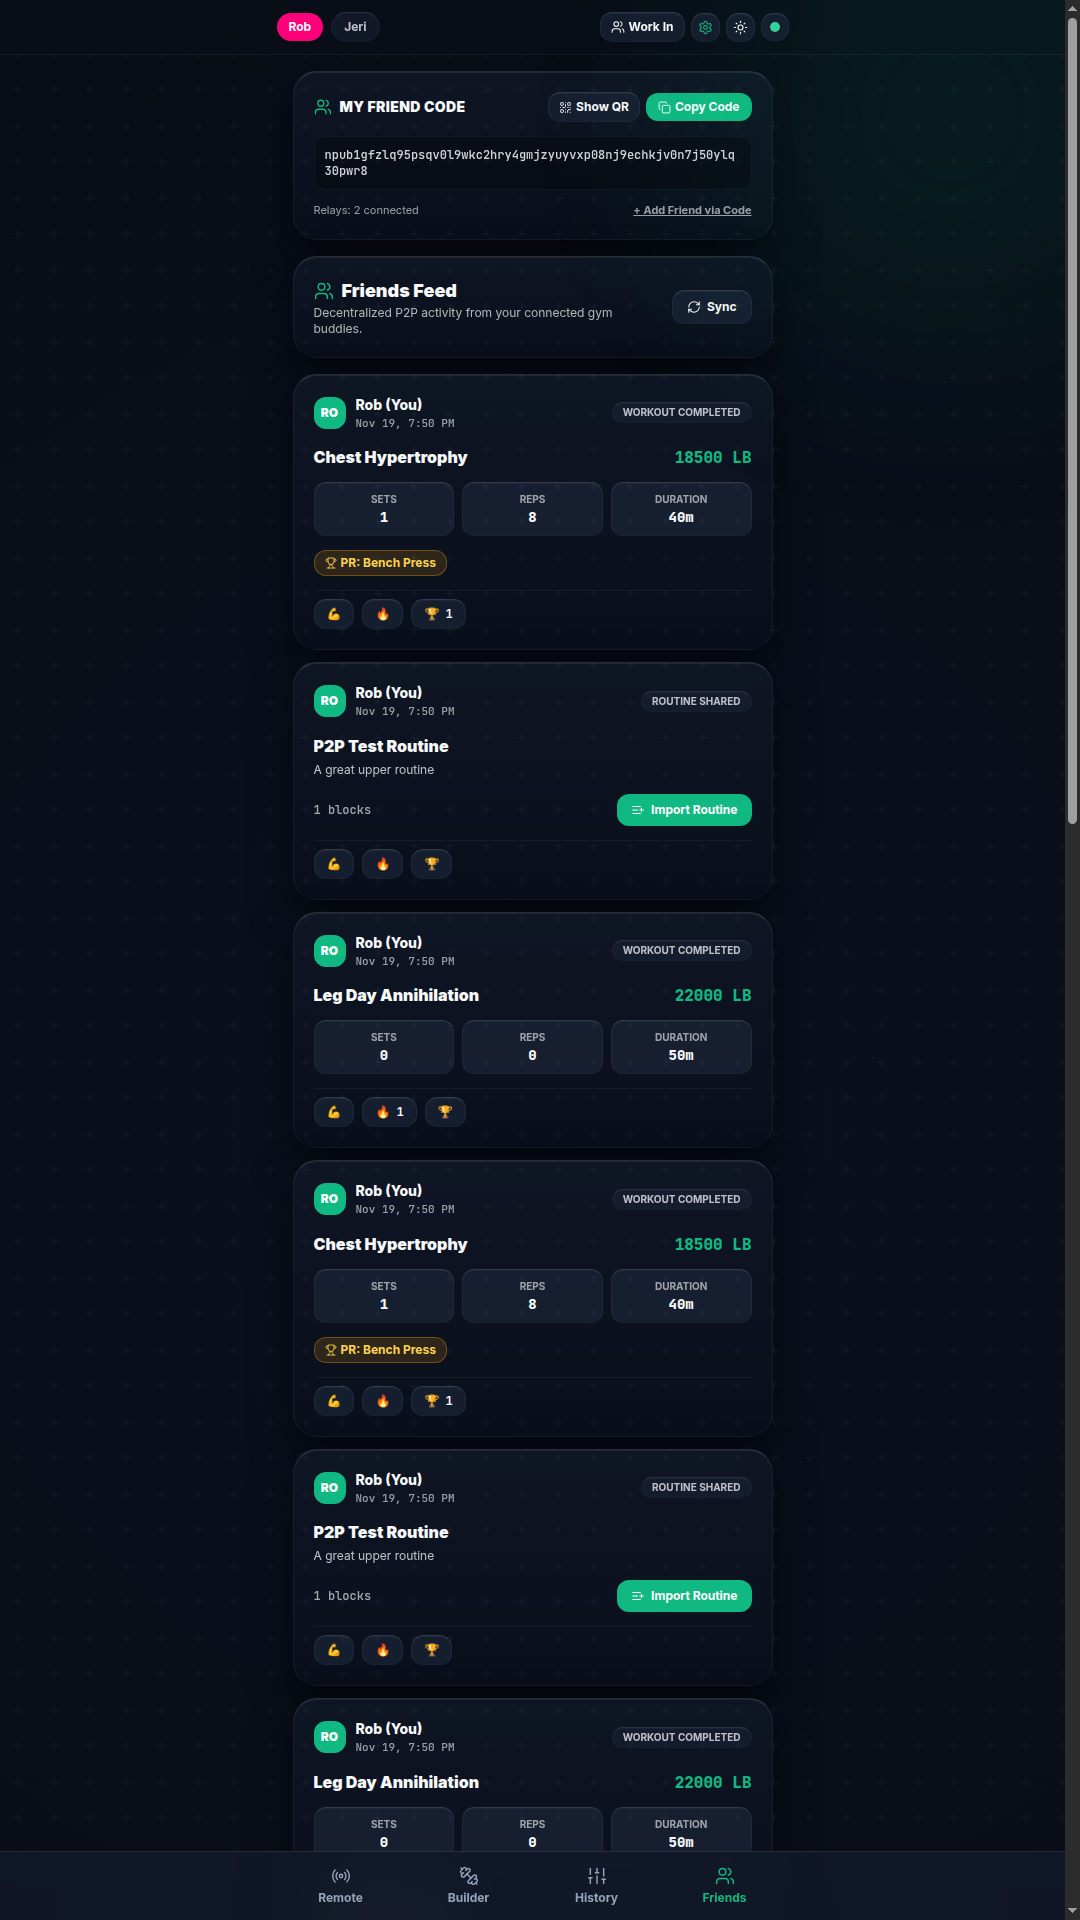
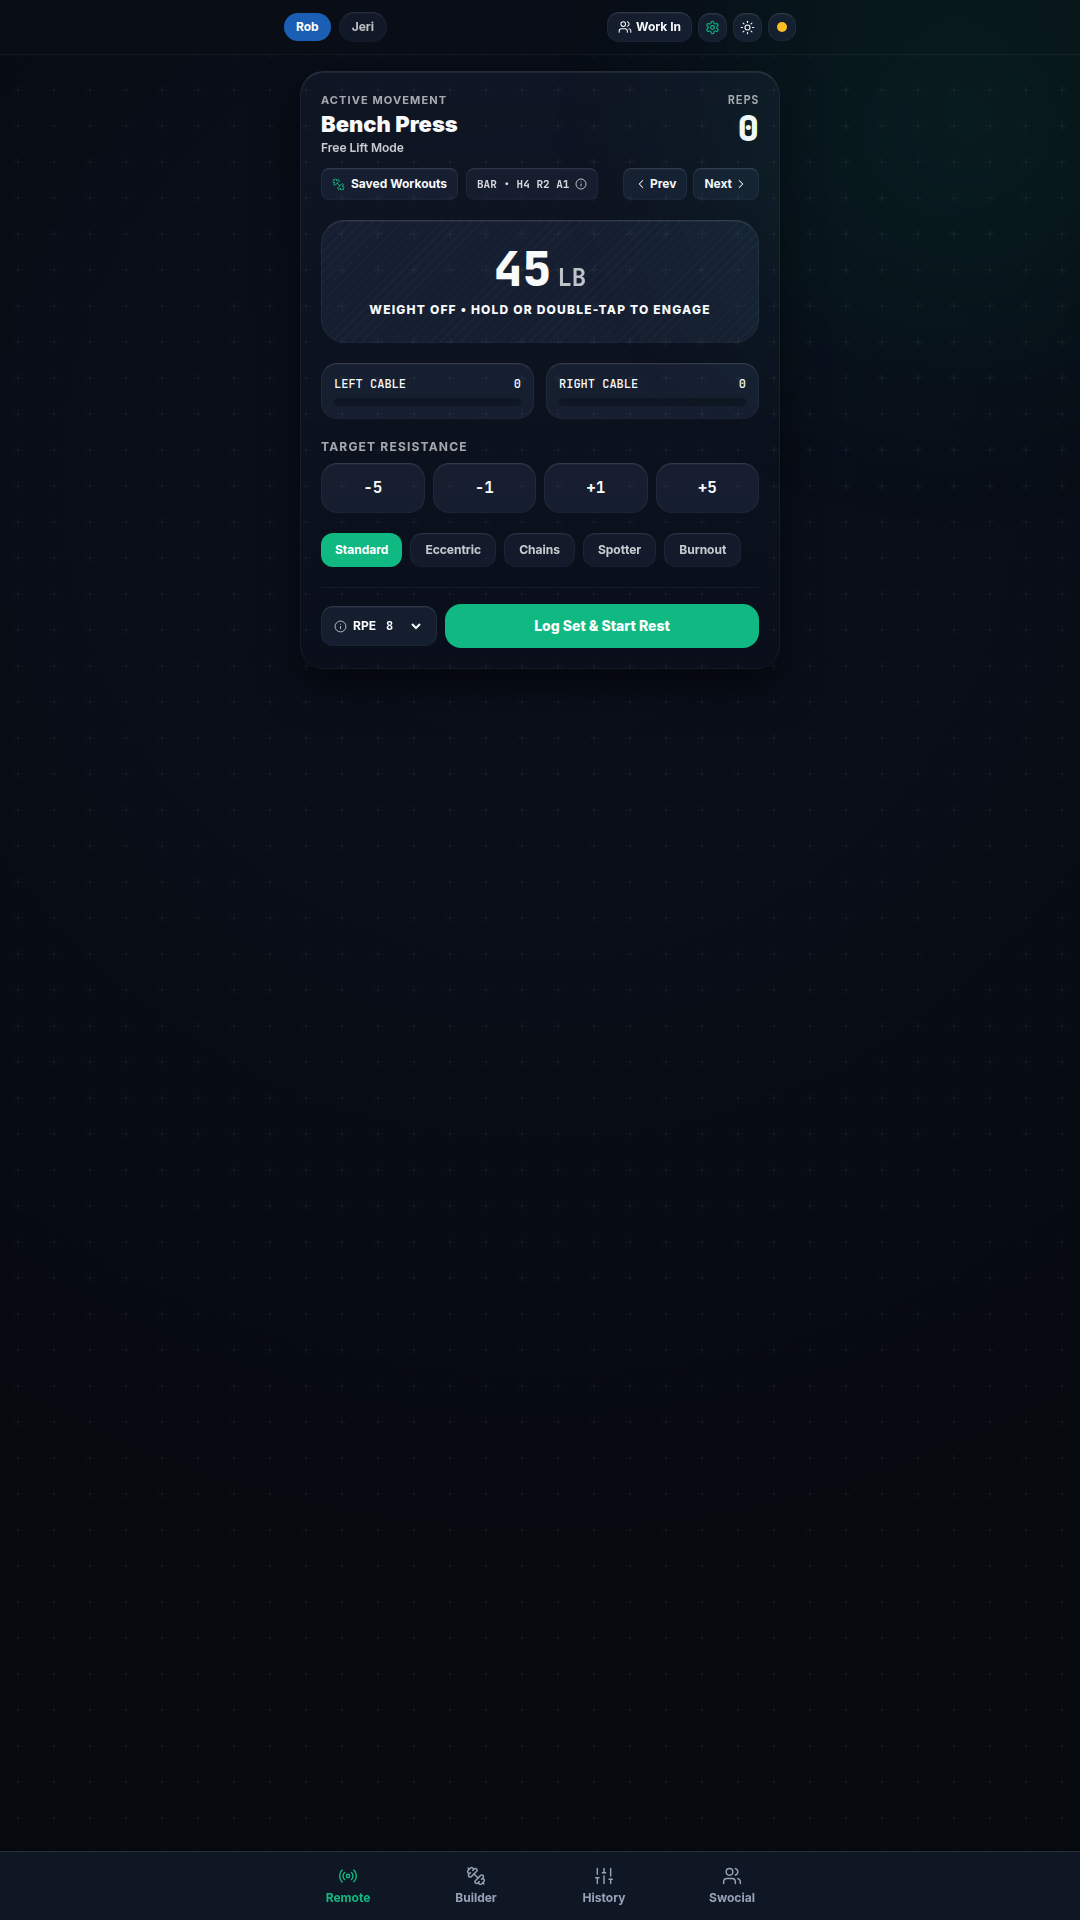
ui: rebrand friends pages and modals to clean and playful 'Swocial'

diff --git a/packages/server-app/src/client/src/components/KioskView.tsx b/packages/server-app/src/client/src/components/KioskView.tsx
@@ -1086,7 +1086,7 @@ export const KioskView: React.FC<{ swonal: SwonalHookReturn }> = ({ swonal }) =>
                   className="w-full elevated-pill py-3 px-3 rounded-xl font-bold text-sm flex items-center justify-center gap-2 hover:opacity-90"
                 >
                   <Users size={16} style={{ color: 'var(--accent-ink)' }} />
-                  <span>Friend Code &amp; QR</span>
+                  <span>Swocial</span>
                 </button>
 
                 <a
@@ -1112,18 +1112,18 @@ export const KioskView: React.FC<{ swonal: SwonalHookReturn }> = ({ swonal }) =>
             )}
           </div>
 
-          {/* Friends & P2P Community Modal */}
+          {/* Swocial Modal */}
           <button
             type="button"
             onClick={() => {
               void loadKioskFriendsData();
               friendsDialogRef.current?.showModal();
             }}
-            title="Open Friends & P2P Community"
+            title="Open Swocial"
             className="elevated-pill px-4 py-3 rounded-2xl flex items-center gap-2 text-sm font-bold hover:opacity-90 transition"
           >
             <Users size={18} style={{ color: 'var(--accent-ink)' }} />
-            <span>Friends</span>
+            <span>Swocial</span>
           </button>
 
           {/* Companion QR Remote Modal */}
@@ -2932,10 +2932,10 @@ export const KioskView: React.FC<{ swonal: SwonalHookReturn }> = ({ swonal }) =>
             </div>
             <div>
               <h2 id="friends-dialog-title" className="text-2xl font-black">
-                Friends &amp; P2P Community
+                Swocial
               </h2>
               <p className="text-xs opacity-70">
-                Decentralized Nostr protocol • No centralized cloud required
+                Live workout feed and gym buddy activity
               </p>
             </div>
           </div>
@@ -2943,7 +2943,7 @@ export const KioskView: React.FC<{ swonal: SwonalHookReturn }> = ({ swonal }) =>
             type="button"
             onClick={() => friendsDialogRef.current?.close()}
             className="elevated-pill p-2 rounded-xl"
-            aria-label="Close Friends Dialog"
+            aria-label="Close Swocial Dialog"
           >
             <X size={20} />
           </button>
@@ -2964,7 +2964,7 @@ export const KioskView: React.FC<{ swonal: SwonalHookReturn }> = ({ swonal }) =>
             }
           >
             <QrCode size={14} />
-            <span>My Friend Code</span>
+            <span>My Swocial Code</span>
           </button>
           <button
             type="button"
@@ -2979,7 +2979,7 @@ export const KioskView: React.FC<{ swonal: SwonalHookReturn }> = ({ swonal }) =>
             }
           >
             <Activity size={14} />
-            <span>Activity Feed</span>
+            <span>Feed</span>
           </button>
           <button
             type="button"
@@ -2994,17 +2994,17 @@ export const KioskView: React.FC<{ swonal: SwonalHookReturn }> = ({ swonal }) =>
             }
           >
             <Plus size={14} />
-            <span>Add Friend ({kioskFriendsList.length})</span>
+            <span>Friends ({kioskFriendsList.length})</span>
           </button>
         </div>
 
-        {/* TAB 1: MY FRIEND CODE */}
+        {/* TAB 1: MY SWOCIAL CODE */}
         {friendsKioskTab === 'mycode' && (
           <div className="space-y-4">
             <div className="flex flex-col sm:flex-row items-center gap-6 p-4 rounded-2xl elevated-pill">
               <div className="bg-white p-3 rounded-2xl shrink-0 flex items-center justify-center shadow-md">
                 {kioskFriendQrDataUrl ? (
-                  <img src={kioskFriendQrDataUrl} alt="Nostr Friend QR Code" className="w-52 h-52" />
+                  <img src={kioskFriendQrDataUrl} alt="Swocial QR Code" className="w-52 h-52" />
                 ) : (
                   <div className="w-52 h-52 flex items-center justify-center text-xs text-slate-500 font-mono">
                     Generating QR...
@@ -3013,14 +3013,14 @@ export const KioskView: React.FC<{ swonal: SwonalHookReturn }> = ({ swonal }) =>
               </div>
               <div className="flex-1 space-y-3 min-w-0 text-center sm:text-left">
                 <div>
-                  <h3 className="font-extrabold text-base">Your Decentralized Friend Code</h3>
+                  <h3 className="font-extrabold text-base">Your Swocial Code</h3>
                   <p className="text-xs opacity-70 mt-0.5">
-                    Have friends scan this QR with their camera or paste this npub key to connect peer-to-peer.
+                    Have friends scan this QR with their camera or paste this code in Swocial to connect.
                   </p>
                 </div>
 
                 <div className="bg-black/30 p-2.5 rounded-xl border border-white/5 font-mono text-xs break-all opacity-85 select-all">
-                  {kioskFriendIdentity?.npub || 'Loading npub identity...'}
+                  {kioskFriendIdentity?.npub || 'Loading Swocial identity...'}
                 </div>
 
                 <div className="flex flex-wrap items-center gap-2">
@@ -3038,7 +3038,7 @@ export const KioskView: React.FC<{ swonal: SwonalHookReturn }> = ({ swonal }) =>
                     style={{ backgroundColor: 'var(--accent-primary)', color: accentTextColor }}
                   >
                     {kioskCopiedNpub ? <Check size={14} /> : <Copy size={14} />}
-                    <span>{kioskCopiedNpub ? 'Copied to Clipboard!' : 'Copy npub Code'}</span>
+                    <span>{kioskCopiedNpub ? 'Copied to Clipboard!' : 'Copy Swocial Code'}</span>
                   </button>
 
                   <button

diff --git a/packages/server-app/src/client/src/components/CompanionView.tsx b/packages/server-app/src/client/src/components/CompanionView.tsx
@@ -1634,12 +1634,12 @@ export const CompanionView: React.FC<{ swonal: SwonalHookReturn }> = ({ swonal }
 
         {tab === 'friends' && (
           <div className="space-y-4">
-            {/* My Friend Code & QR Card */}
+            {/* My Swocial Code & QR Card */}
             <div className="surface-card rounded-3xl p-5 space-y-3.5 border border-white/10">
               <div className="flex items-center justify-between gap-2">
                 <div className="flex items-center gap-2">
                   <Users size={18} style={{ color: 'var(--accent-primary)' }} />
-                  <span className="font-black text-sm uppercase tracking-wide">My Friend Code</span>
+                  <span className="font-black text-sm uppercase tracking-wide">My Swocial Code</span>
                 </div>
                 <div className="flex items-center gap-1.5">
                   <button
@@ -1679,8 +1679,8 @@ export const CompanionView: React.FC<{ swonal: SwonalHookReturn }> = ({ swonal }
                   </div>
                   {showFriendQr && companionFriendQrUrl && (
                     <div className="flex flex-col items-center justify-center p-4 bg-white rounded-2xl">
-                      <img src={companionFriendQrUrl} alt="My Nostr Friend QR Code" className="w-52 h-52" />
-                      <p className="text-slate-900 text-[11px] font-bold mt-2">Scan to connect on Swonal P2P</p>
+                      <img src={companionFriendQrUrl} alt="My Swocial QR Code" className="w-52 h-52" />
+                      <p className="text-slate-900 text-[11px] font-bold mt-2">Scan to connect on Swocial</p>
                     </div>
                   )}
                   <div className="flex items-center justify-between text-[11px] opacity-60">
@@ -1703,7 +1703,7 @@ export const CompanionView: React.FC<{ swonal: SwonalHookReturn }> = ({ swonal }
                 <div className="pt-2 border-t border-white/5 space-y-2.5">
                   <input
                     type="text"
-                    placeholder="Friend's npub1... key or hex"
+                    placeholder="Friend's Swocial code or hex"
                     value={newFriendCode}
                     onChange={(e) => setNewFriendCode(e.target.value)}
                     className="w-full elevated-pill px-3 py-2 rounded-xl font-mono text-xs focus:outline-none"
@@ -1744,10 +1744,10 @@ export const CompanionView: React.FC<{ swonal: SwonalHookReturn }> = ({ swonal }
               <div>
                 <h2 className="text-lg font-black flex items-center gap-2">
                   <Users size={20} style={{ color: 'var(--accent-primary)' }} />
-                  <span>Friends Feed</span>
+                  <span>Swocial</span>
                 </h2>
                 <p className="text-xs opacity-70">
-                  Decentralized P2P activity from your connected gym buddies.
+                  Live workout activity and high-fives from your gym buddies.
                 </p>
               </div>
               <button
@@ -1993,7 +1993,7 @@ export const CompanionView: React.FC<{ swonal: SwonalHookReturn }> = ({ swonal }
             style={{ color: tab === 'friends' ? 'var(--accent-primary)' : 'var(--text-muted)' }}
           >
             <Users size={20} />
-            <span>Friends</span>
+            <span>Swocial</span>
           </button>
         </div>
       </nav>

diff --git a/packages/server-app/src/client/src/components/SettingsView.tsx b/packages/server-app/src/client/src/components/SettingsView.tsx
@@ -774,7 +774,7 @@ export const SettingsView: React.FC<SettingsViewProps> = ({ swonal, onAuthLock }
           {(
             [
               { id: 'users', label: 'Users', icon: Users },
-              { id: 'friends', label: 'Friends', icon: Share2 },
+              { id: 'friends', label: 'Swocial', icon: Share2 },
               { id: 'ai', label: 'AI', icon: Bot },
               { id: 'network', label: 'Network', icon: Globe },
               { id: 'security', label: 'Security', icon: ShieldCheck },
@@ -986,18 +986,18 @@ export const SettingsView: React.FC<SettingsViewProps> = ({ swonal, onAuthLock }
           </section>
         )}
 
-        {/* FRIENDS TAB */}
+        {/* SWOCIAL TAB */}
         {activeTab === 'friends' && (
           <div className="space-y-6">
-            {/* 1. Self-Sovereign Identity */}
+            {/* 1. Swocial Identity */}
             <section className="surface-card rounded-3xl p-6 space-y-4">
               <div className="flex flex-wrap items-center justify-between gap-3">
                 <div className="flex items-center gap-2.5">
                   <Share2 size={22} style={{ color: 'var(--accent-primary)' }} />
                   <div>
-                    <h2 className="text-xl font-black">Decentralized P2P Identity (Nostr)</h2>
+                    <h2 className="text-xl font-black">Swocial</h2>
                     <p className="text-xs opacity-70">
-                      Self-sovereign secp256k1 identity for {activeUser?.name ?? 'Lifter'}. Share workouts peer-to-peer without centralized servers.
+                      Connect with gym buddies to share workouts, celebrate PRs, and exchange routine templates.
                     </p>
                   </div>
                 </div>
@@ -1013,19 +1013,19 @@ export const SettingsView: React.FC<SettingsViewProps> = ({ swonal, onAuthLock }
               </div>
 
               {friendsLoading ? (
-                <div className="p-8 text-center text-xs opacity-60">Loading Nostr identity...</div>
+                <div className="p-8 text-center text-xs opacity-60">Loading Swocial identity...</div>
               ) : nostrIdentity ? (
                 <div className="space-y-4">
                   <div className="flex flex-col sm:flex-row items-center gap-5 elevated-pill rounded-2xl p-5">
                     {settingsFriendQrUrl && (
                       <div className="bg-white p-3 rounded-2xl shrink-0 flex items-center justify-center shadow-md">
-                        <img src={settingsFriendQrUrl} alt="Nostr Friend QR Code" className="w-40 h-40" />
+                        <img src={settingsFriendQrUrl} alt="Swocial QR Code" className="w-40 h-40" />
                       </div>
                     )}
                     <div className="flex-1 space-y-2 min-w-0 w-full">
                       <div className="flex items-center justify-between gap-2">
                         <span className="text-xs uppercase font-bold tracking-wider opacity-65">
-                          Your Public Nostr npub (Share with friends)
+                          Your Public Swocial Code
                         </span>
                         <button
                           type="button"

diff --git a/README.md b/README.md
@@ -34,10 +34,10 @@
 | <img src="docs/screenshots/kiosk_arm_guide.png" alt="Arm Alignment Guide" width="420" /> | <img src="docs/screenshots/kiosk_form_demo.png" alt="Form Demo Preview" width="420" /> |
 | *Live hardware readout of arm height, rotation, and angle sensors (`0x1020`/`0x1021`/`0x1025`) matching target exercise configuration.* | *Picture-in-Picture (PiP) animated SVG/video form loop demonstrating proper lifting technique and primary muscle activation.* |
 
-| **AI Voice Coach & MCP Agent** *(Solar Amber)* | **Decentralized Friends Feed & QR** *(Emerald)* |
+| **AI Voice Coach & MCP Agent** *(Solar Amber)* | **Swocial Network & Feed** *(Emerald)* |
 |:---:|:---:|
-| <img src="docs/screenshots/kiosk_ai_coach.png" alt="AI Voice Coach & MCP Dialog" width="420" /> | <img src="docs/screenshots/kiosk_friends_feed.png" alt="Friends Feed" width="420" /> |
-| *Bring-Your-Own-Key AI Voice Coach (OpenAI, Anthropic, Gemini, Ollama) and live MCP server integration for autonomous workout programming.* | *Decentralized peer-to-peer social network via Nostr: tap "Friends" in the header or phone companion to share your Friend QR code & npub, celebrate friend PRs, send reactions (`💪`, `🔥`, `🏆`), and 1-tap import routines.* |
+| <img src="docs/screenshots/kiosk_ai_coach.png" alt="AI Voice Coach & MCP Dialog" width="420" /> | <img src="docs/screenshots/kiosk_friends_feed.png" alt="Swocial Feed" width="420" /> |
+| *Bring-Your-Own-Key AI Voice Coach (OpenAI, Anthropic, Gemini, Ollama) and live MCP server integration for autonomous workout programming.* | *Peer-to-peer fitness network: tap "Swocial" in the header or phone companion to share your Swocial QR code, celebrate friend PRs, send reactions (`💪`, `🔥`, `🏆`), and 1-tap import routines.* |
 
 ---
 
@@ -168,9 +168,9 @@ The automated script [`scripts/install-device.sh`](scripts/install-device.sh) ha
 Once installed, Swonal Kiosk automatically boots on the Tonal wall display:
 
 - **Switching to Stock Tonal & Back**: Tap the quick-action menu at the top right of the screen and choose **"Exit to Stock Tonal"**. The daemon releases `/dev/ttyACM0` and launches stock software with a discreet floating overlay pill. Tapping the pill returns instantly to Swonal Kiosk without rebooting.
-- **Mobile Remote Control & Social Feed**: Open `http://<SERVER_IP>:3000/companion` on your smartphone (or scan the on-screen QR code) to queue exercises, adjust weight, view your friends' workout feed, react with motivation (`💪`, `🔥`, `🏆`), or import shared routines with one tap.
+- **Swocial Mobile Remote & Feed**: Open `http://<SERVER_IP>:3000/companion` on your smartphone (or scan the on-screen QR code) to queue exercises, adjust weight, view your Swocial workout feed, react with motivation (`💪`, `🔥`, `🏆`), or import shared routines with one tap.
 - **Local Fail-Safe Protection**: If Wi-Fi ever drops mid-set, tapping **WEIGHT OFF** bypasses the network entirely via local loopback socket (`127.0.0.1:8765`), dropping cable tension in `<5ms`.
-- **Dedicated Application Settings**: Navigate to `/settings` or tap the gear icon to configure Lifters, Friends & P2P Nostr Identity, BYOK AI Coach, Network overrides, and Security/Data backups.
+- **Dedicated Application Settings**: Navigate to `/settings` or tap the gear icon to configure Lifters, Swocial Profile, BYOK AI Coach, Network overrides, and Security/Data backups.
 
 ---
 
